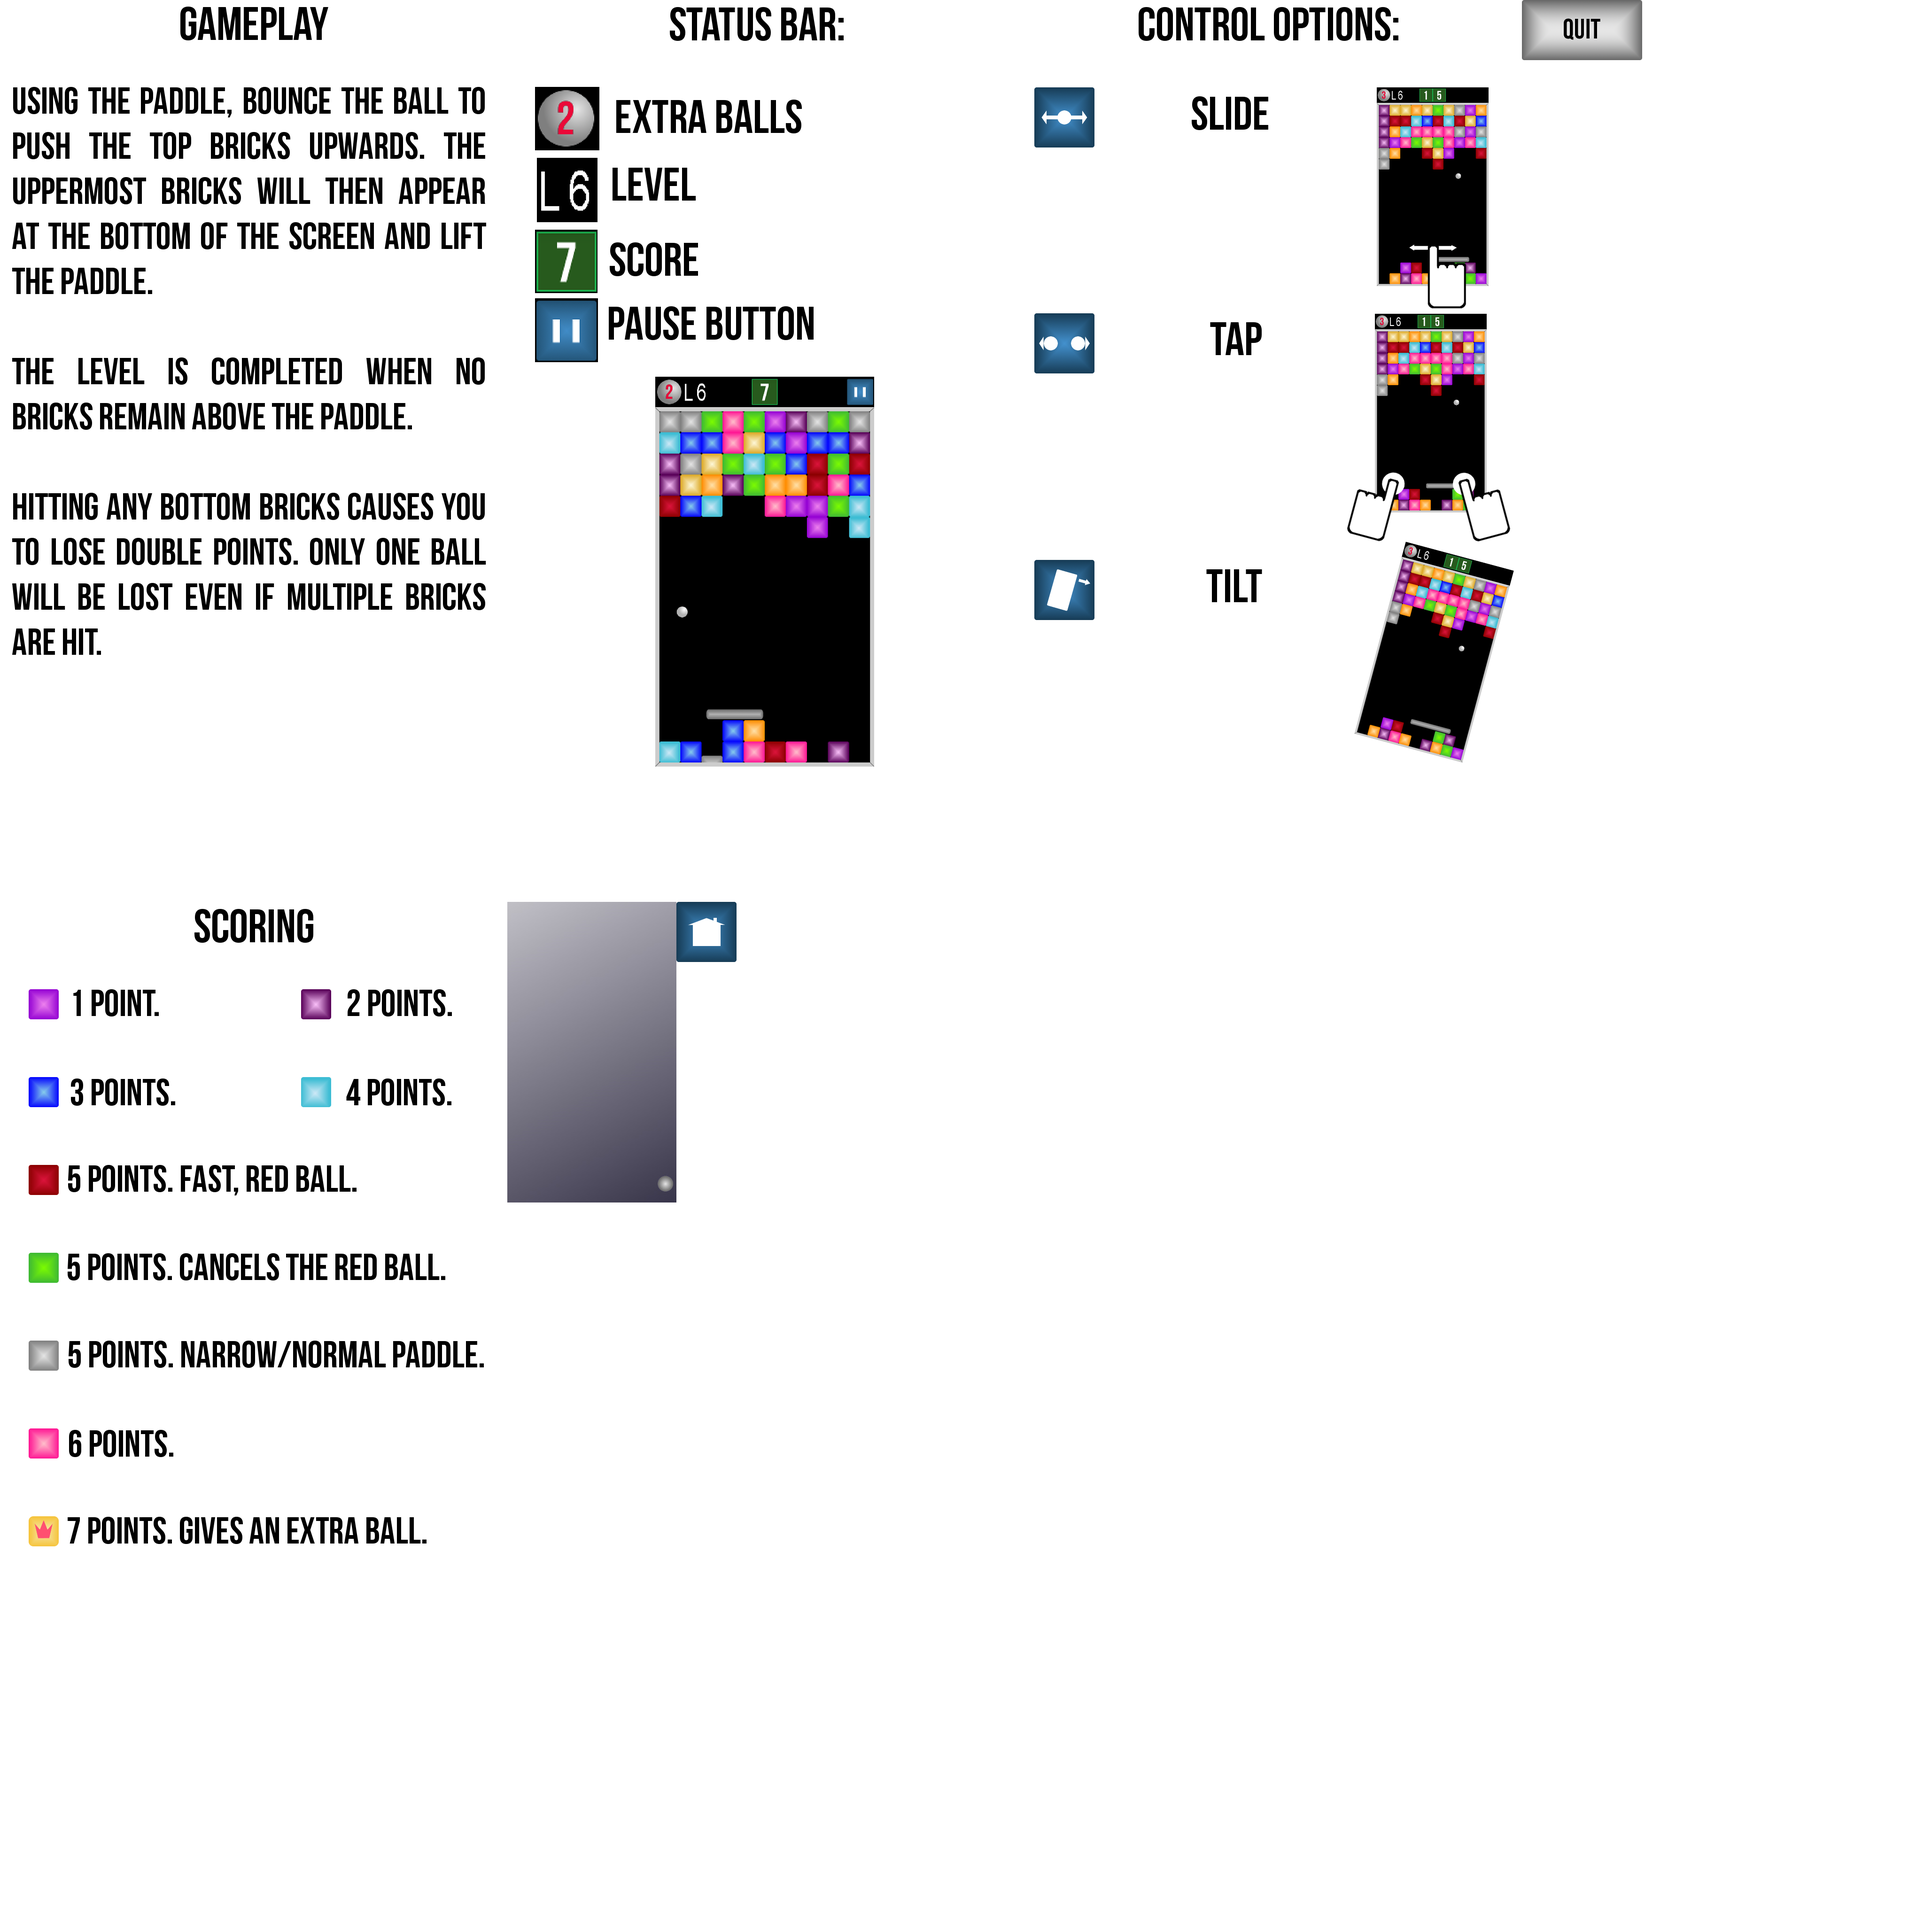
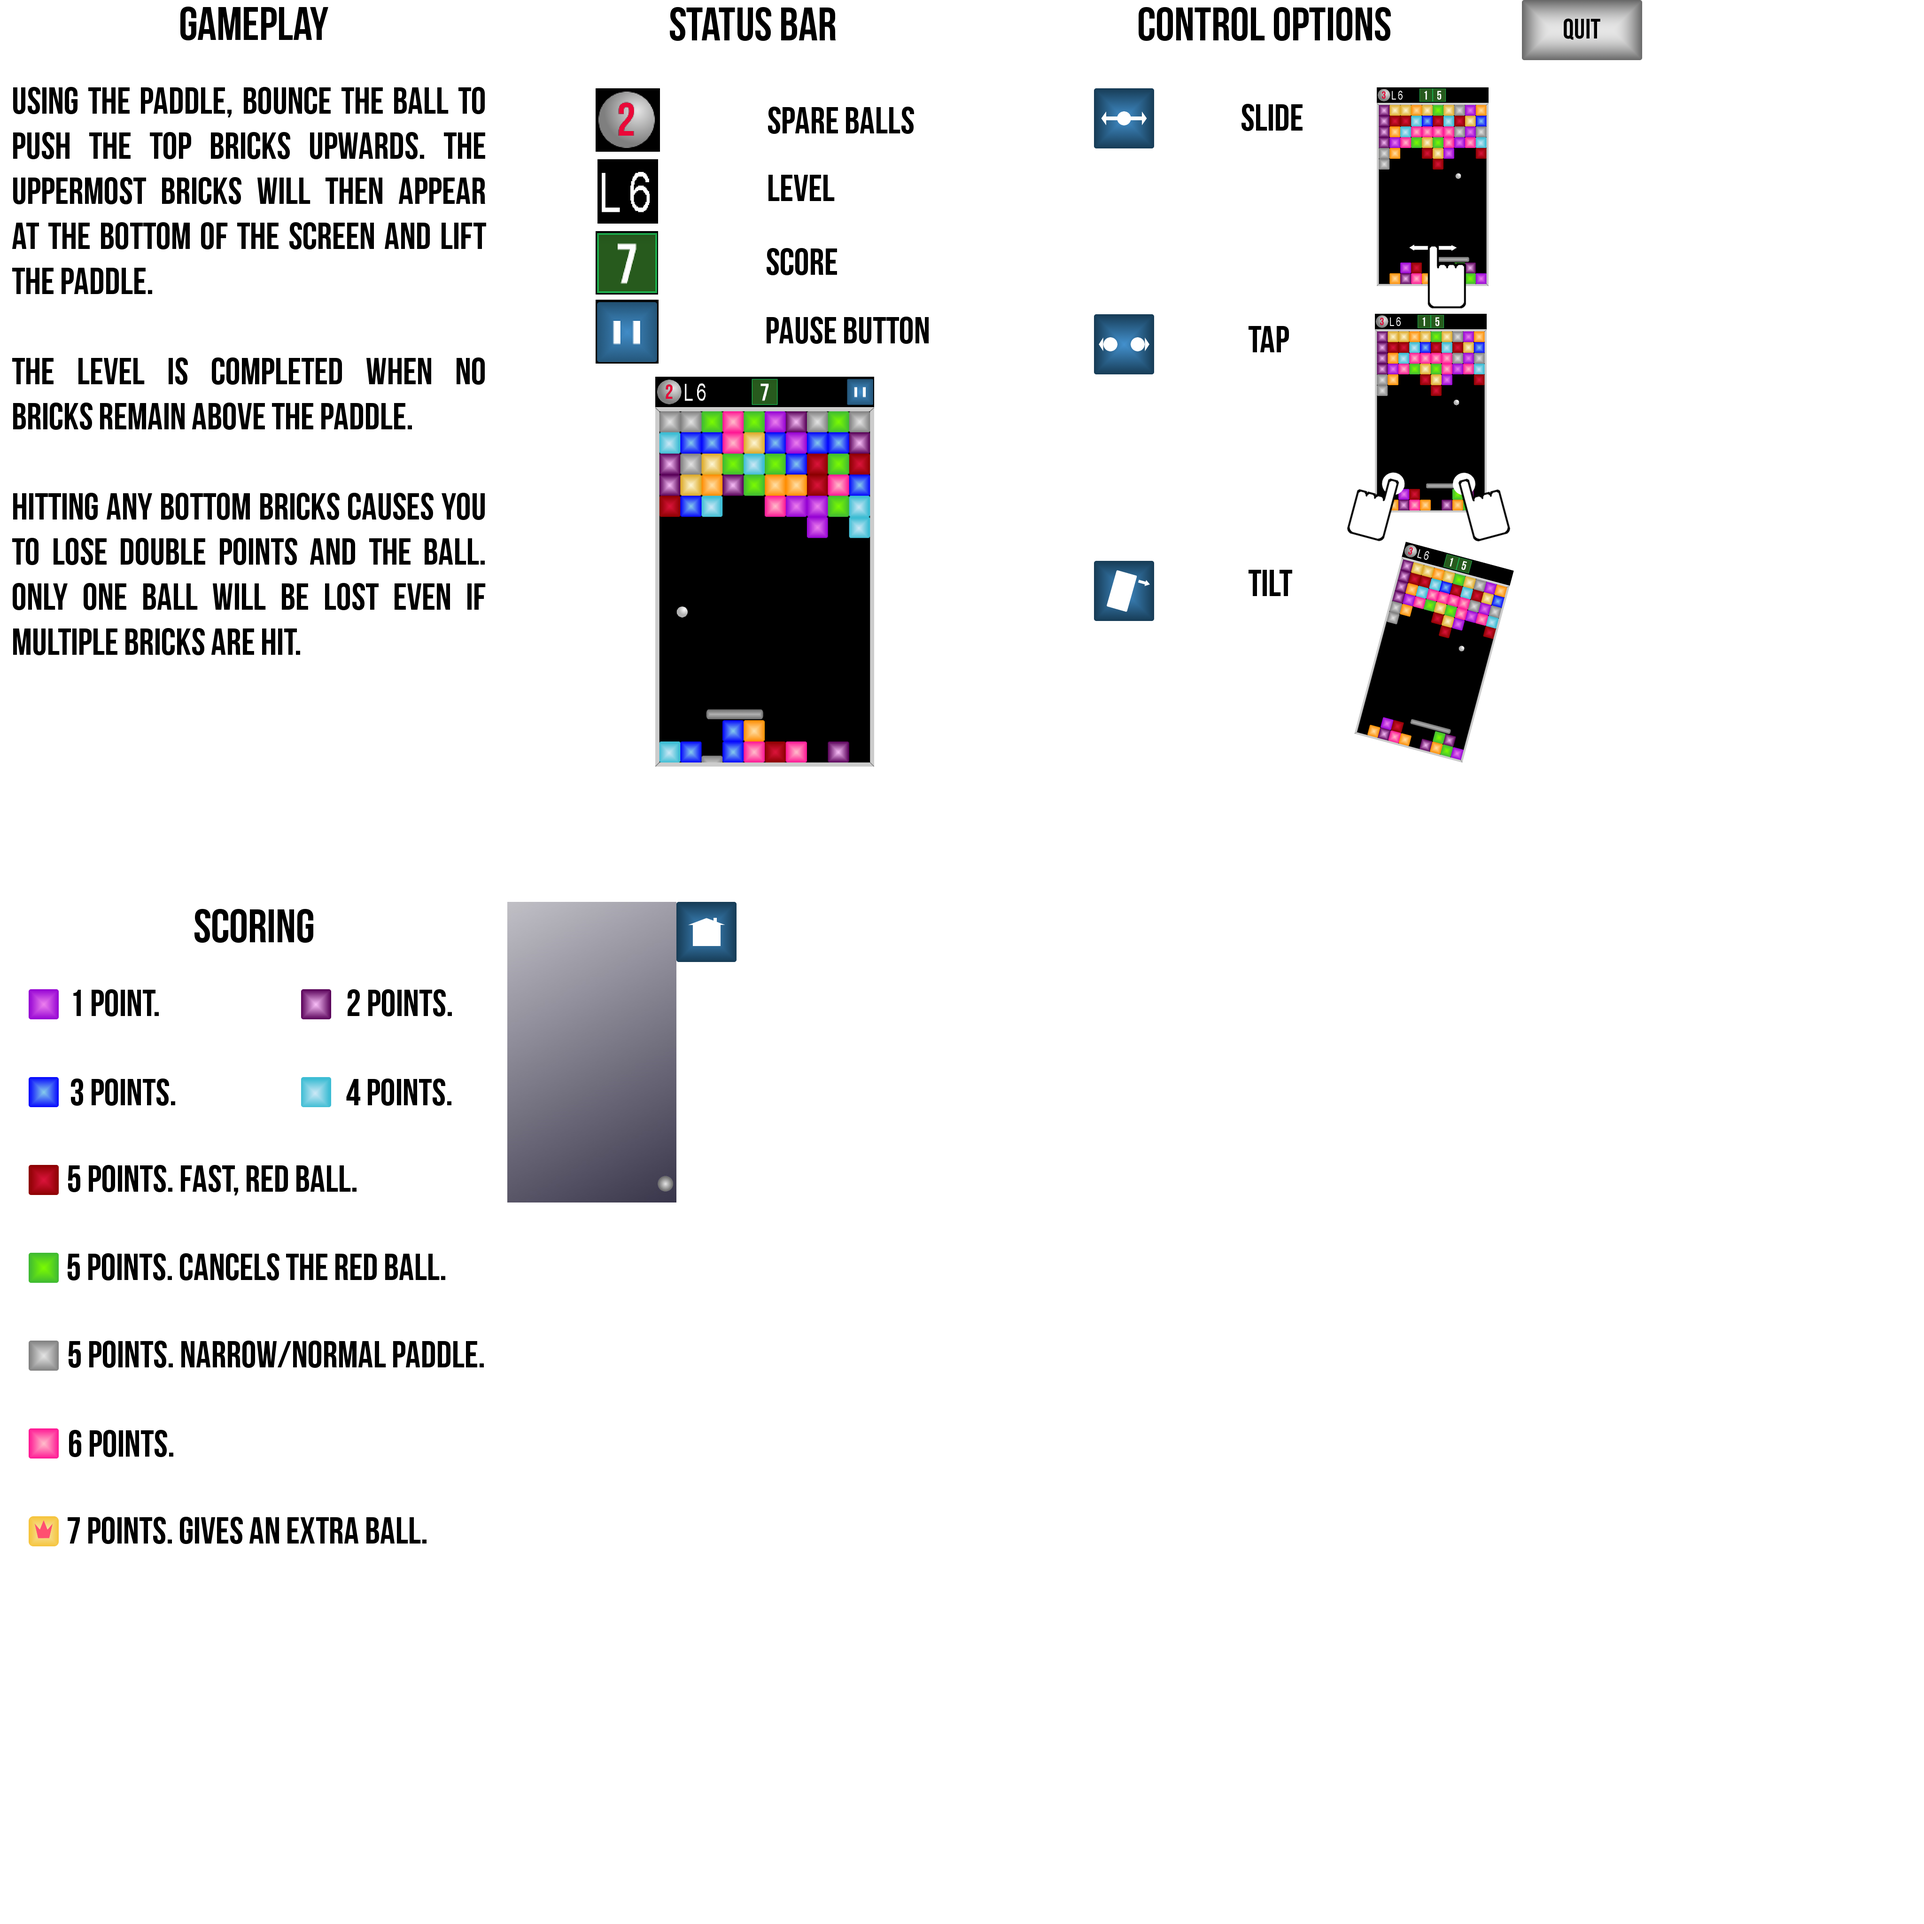
delete logging. delete FPSCounter. improve HelpScreens

diff --git a/src/com/mmango/arkshift/World.java b/src/com/mmango/arkshift/World.java
@@ -4,7 +4,7 @@ import java.util.ArrayList;
 import java.util.List;
 import java.util.Random;
 
-import android.util.Log;
+//import android.util.Log;
 
 import com.badlogic.androidgames.framework.math.Circle;
 import com.badlogic.androidgames.framework.math.OverlapTester;
@@ -448,10 +448,10 @@ public class World {
 			if (y2 > level - 1) { // if the right up corner of the ball rect is
 									// lower than the lowest possible row
 				// then no collision is possible
-				Log.d("World:getCellIds",
-						"right up corner of the ball rect is in cell y2 = "
-								+ y2
-								+ " which is lower than the lowest possible row");
+//				Log.d("World:getCellIds",
+//						"right up corner of the ball rect is in cell y2 = "
+//								+ y2
+//								+ " which is lower than the lowest possible row");
 				setNoCellIds();
 				return cellIds;
 			}
@@ -481,14 +481,14 @@ public class World {
 			if (y2 < 0)
 				y2 = 0;
 
-			Log.d("World:getCellIds", "The ball is in cells: x1=" + x1 + " y1="
-					+ y1 + " x2=" + x2 + " y2=" + y2);
+//			Log.d("World:getCellIds", "The ball is in cells: x1=" + x1 + " y1="
+//					+ y1 + " x2=" + x2 + " y2=" + y2);
 
 			cellIds[0] = x1;
 			cellIds[1] = y1;
 
 			if (x1 == x2 && y1 == y2) {
-				Log.d("World:getCellIds", "The ball is completely in one cell");
+//				Log.d("World:getCellIds", "The ball is completely in one cell");
 				cellIds[2] = -1; // the ball is completely in one cell
 				cellIds[3] = -1; // so no need to duplicate the cell IDs. One is
 									// enough
@@ -497,7 +497,7 @@ public class World {
 				cellIds[6] = -1;
 				cellIds[7] = -1;
 			} else if ((x1 == x2) || (y1 == y2)) { 
-				Log.d("World:getCellIds", "The ball overlaps only two cells either in same column or same row");
+//				Log.d("World:getCellIds", "The ball overlaps only two cells either in same column or same row");
 
 				// the ball is in one column
 													// or in one row
@@ -509,7 +509,7 @@ public class World {
 				cellIds[6] = -1;
 				cellIds[7] = -1;
 			} else { // the ball overlaps 4 cells
-				Log.d("World:getCellIds", "The ball overlaps four cells");
+//				Log.d("World:getCellIds", "The ball overlaps four cells");
 				cellIds[2] = x2;
 				cellIds[3] = y2;
 				int x3 = x2;
@@ -540,10 +540,10 @@ public class World {
 			int y1 = (int) Math.floor((ball.rectBounds.lowerLeft.y - FRAME_WIDTH) / CELL_SIZE);
 
 			if (y1 > level - 1) { //if the left bottom corner of the ball rect is higher than the highest possible row  then no collision is possible
-				Log.d("World:getCellIds",
-						"The left bottom corner of the ball rect is in cell y1 = "
-								+ y1
-								+ " which is higher than the highest possible row");
+//				Log.d("World:getCellIds",
+//						"The left bottom corner of the ball rect is in cell y1 = "
+//								+ y1
+//								+ " which is higher than the highest possible row");
 				setNoCellIds();
 				return cellIds;
 			}
@@ -572,14 +572,14 @@ public class World {
 			if (y2 < 0)
 				y2 = 0;
 
-			Log.d("World:getCellIds", "The ball is in cells: x1=" + x1 + " y1="
-					+ y1 + " x2=" + x2 + " y2=" + y2);
+//			Log.d("World:getCellIds", "The ball is in cells: x1=" + x1 + " y1="
+//					+ y1 + " x2=" + x2 + " y2=" + y2);
 
 			cellIds[0] = x1;
 			cellIds[1] = y1;
 
 			if (x1 == x2 && y1 == y2) {
-				Log.d("World:getCellIds", "The ball is completely in one cell");
+//				Log.d("World:getCellIds", "The ball is completely in one cell");
 				cellIds[2] = -1; // the ball is completely in one cell
 				cellIds[3] = -1; // so no need to duplicate the cell IDs. One is
 									// enough
@@ -588,7 +588,7 @@ public class World {
 				cellIds[6] = -1;
 				cellIds[7] = -1;
 			} else if ((x1 == x2) || (y1 == y2)) { 
-				Log.d("World:getCellIds", "The ball overlaps only two cells either in same column or same row");
+//				Log.d("World:getCellIds", "The ball overlaps only two cells either in same column or same row");
 
 				// the ball is in one column
 													// or in one row
@@ -600,7 +600,7 @@ public class World {
 				cellIds[6] = -1;
 				cellIds[7] = -1;
 			} else { // the ball overlaps 4 cells
-				Log.d("World:getCellIds", "The ball overlaps four cells");
+//				Log.d("World:getCellIds", "The ball overlaps four cells");
 				cellIds[2] = x2;
 				cellIds[3] = y2;
 				int x3 = x2;
@@ -638,9 +638,6 @@ public class World {
 		int bricksTouchedCounter = 0;
 		int bricksAffectedCounter = 0;
 		boolean isCeiling = false;
-		boolean ballAboveRacquet = false;
-		int xCell = -1;
-		int yCell = -1;
 		int[] bricksToCheck = { -1, -1, -1, -1 };
 
 		// int b = 0;
@@ -653,13 +650,13 @@ public class World {
 		// the bricks
 
 		// calculate cells where the corners of ball.rectBounds are located
-		Log.d("World:checkBallCollisionsWithBricks",
-				"ball.rectBounds.lowerLeft x=" + ball.rectBounds.lowerLeft.x
-						+ " y=" + ball.rectBounds.lowerLeft.y);
+//		Log.d("World:checkBallCollisionsWithBricks",
+//				"ball.rectBounds.lowerLeft x=" + ball.rectBounds.lowerLeft.x
+//						+ " y=" + ball.rectBounds.lowerLeft.y);
 		// example: ball.rectBounds.lowerLeft x=85.97813 y=161.30772
 		int j = 0;
 		if (ball.position.y > racquet.position.y) {
-			Log.d("World:checkBallCollisionsWithBricks", "Getting the potential cells from the ceiling");
+//			Log.d("World:checkBallCollisionsWithBricks", "Getting the potential cells from the ceiling");
 			getCellIds(ball, true); //get the potential cells from the ceiling
 			for (int z = 0; z < 8; z++) {
 				int w = z + 1;
@@ -667,9 +664,9 @@ public class World {
 					z = w;
 					continue;
 				}
-				Log.d("World:checkBallCollisionsWithBricks", "z=" + z + " w=" +w);
-				Log.d("World:checkBallCollisionsWithBricks", "Cell column="
-						+ cellIds[z] + " row=" + cellIds[w]);
+//				Log.d("World:checkBallCollisionsWithBricks", "z=" + z + " w=" +w);
+//				Log.d("World:checkBallCollisionsWithBricks", "Cell column="
+//						+ cellIds[z] + " row=" + cellIds[w]);
 				if (ceilingBricksId[cellIds[z]][cellIds[w]] != NO_OBJECT_ID) {
 					bricksToCheck[j] = ceilingBricksId[cellIds[z]][cellIds[w]];
 				}
@@ -677,7 +674,7 @@ public class World {
 				z = w;
 			}
 		} else {
-			Log.d("World:checkBallCollisionsWithBricks", "Getting the potential cells from the floor");
+//			Log.d("World:checkBallCollisionsWithBricks", "Getting the potential cells from the floor");
 			getCellIds(ball, false); //get the potential cells from the floor
 			for (int z = 0; z < 8; z++) {
 				int w = z + 1;
@@ -685,9 +682,9 @@ public class World {
 					z = w;
 					continue;
 				}
-				Log.d("World:checkBallCollisionsWithBricks", "z=" + z + " w=" +w);
-				Log.d("World:checkBallCollisionsWithBricks", "Cell column="
-						+ cellIds[z] + " row=" + cellIds[w]);
+//				Log.d("World:checkBallCollisionsWithBricks", "z=" + z + " w=" +w);
+//				Log.d("World:checkBallCollisionsWithBricks", "Cell column="
+//						+ cellIds[z] + " row=" + cellIds[w]);
 				if (floorBricksId[cellIds[z]][cellIds[w]] != NO_OBJECT_ID) {
 					bricksToCheck[j] = floorBricksId[cellIds[z]][cellIds[w]];
 				}
@@ -702,14 +699,14 @@ public class World {
 			// would overlap with the
 			// ball in the next move
 			if (bricksToCheck[i] != -1) {
-				Log.d("World:checkBallCollisionsWithBricks", "AGAIN bricksToCheck[" + i
-						+ "]=" + bricksToCheck[i]);
+//				Log.d("World:checkBallCollisionsWithBricks", "AGAIN bricksToCheck[" + i
+//						+ "]=" + bricksToCheck[i]);
 				Brick brick = bricks.get(bricksToCheck[i]);
 				if (OverlapTester.overlapCircleRectangle(ball.bounds,
 						brick.bounds)) {
 					bricksTouched[bricksTouchedCounter] = bricksToCheck[i];
 					bricksTouchedCounter++;
-					Log.d("World:checkBallCollisionsWithBricks", "Overlapping brick " + bricksToCheck[i]);
+//					Log.d("World:checkBallCollisionsWithBricks", "Overlapping brick " + bricksToCheck[i]);
 
 					// temporary, to test the level passed situation:
 					// state = WORLD_STATE_NEXT_LEVEL;
@@ -718,16 +715,16 @@ public class World {
 		}
 		
 
-		if (bricksTouchedCounter != 0) {
-			Log.d("World:checkBallCollisionsWithBricks",
-					"bricksTouchedCounter = " + bricksTouchedCounter);
-			Log.d("World:checkBallCollisionsWithBricks", "ballAtCeiling = "
-					+ ballAboveRacquet);
-		}
+//		if (bricksTouchedCounter != 0) {
+//			Log.d("World:checkBallCollisionsWithBricks",
+//					"bricksTouchedCounter = " + bricksTouchedCounter);
+//			Log.d("World:checkBallCollisionsWithBricks", "ballAtCeiling = "
+//					+ ballAboveRacquet);
+//		}
 
 		if (bricksTouchedCounter == 2) { // I expect it be not more than 2
-			Log.d("World:checkBallCollisionsWithBricks",
-					"2 bricks are touched!");
+//			Log.d("World:checkBallCollisionsWithBricks",
+//					"2 bricks are touched!");
 			// for (int k = 0; k < length; k++) {
 			// Log.d("World:checkBallCollisionsWithBricks",
 			// "brickID in bricks = " + bricksTouched.get(k));
@@ -886,8 +883,8 @@ public class World {
 			}
 
 		} else if (bricksTouchedCounter == 3) {
-			Log.d("World:checkBallCollisionsWithBricks",
-					"3 bricks are touched! This is a kind of IN-CORNER collision");
+//			Log.d("World:checkBallCollisionsWithBricks",
+//					"3 bricks are touched! This is a kind of IN-CORNER collision");
 			// Log.d("World:checkBallCollisionsWithBricks",
 
 			// Actually it is geometricaly impossible for a circle to touch
@@ -925,7 +922,7 @@ public class World {
 
 		} else if (bricksTouchedCounter == 1) { // only one brick would be
 												// overlap
-			Log.d("World:checkBallCollisionsWithBricks", "1 brick is touched!");
+//			Log.d("World:checkBallCollisionsWithBricks", "1 brick is touched!");
 
 			bricksAffected[0] = bricksTouched[0]; // in this array I
 													// store the ID of the
@@ -933,9 +930,9 @@ public class World {
 			bricksAffectedCounter = 1;
 
 			Brick brick = bricks.get(bricksAffected[0]);
-			Log.d("World:checkBallCollisionsWithBricks",
-					"brick.bounds.lowerLeft x=" + brick.bounds.lowerLeft.x
-							+ " y=" + brick.bounds.lowerLeft.y);
+//			Log.d("World:checkBallCollisionsWithBricks",
+//					"brick.bounds.lowerLeft x=" + brick.bounds.lowerLeft.x
+//							+ " y=" + brick.bounds.lowerLeft.y);
 			// example brick.bounds.lowerLeft x=85.2 y=164.6
 
 			Circle c = ball.bounds;

diff --git a/src/com/mmango/arkshift/GameScreen.java b/src/com/mmango/arkshift/GameScreen.java
@@ -9,7 +9,7 @@ import javax.microedition.khronos.opengles.GL10;
 import com.badlogic.androidgames.framework.Game;
 import com.badlogic.androidgames.framework.Input.TouchEvent;
 import com.badlogic.androidgames.framework.gl.Camera2D;
-import com.badlogic.androidgames.framework.gl.FPSCounter;
+//import com.badlogic.androidgames.framework.gl.FPSCounter;
 import com.badlogic.androidgames.framework.gl.SpriteBatcher;
 import com.badlogic.androidgames.framework.gl.TextureRegion;
 import com.badlogic.androidgames.framework.impl.GLScreen;
@@ -55,7 +55,7 @@ public class GameScreen extends GLScreen {
 	Rectangle moveRacquetRightTouchZone;
 	int lastScore;
 	String scoreString;
-	FPSCounter fpsCounter;
+	//FPSCounter fpsCounter;
 	float lastX = -1;
 	float lastY = -1;
 	TextureRegion ballsLeftRegion;
@@ -153,7 +153,7 @@ public class GameScreen extends GLScreen {
 						- FRAME_WIDTH);
 		lastScore = 0;
 		scoreString = Integer.toString(lastScore);
-		fpsCounter = new FPSCounter();
+		//fpsCounter = new FPSCounter();
 	}
 
 	@Override
@@ -481,7 +481,7 @@ public class GameScreen extends GLScreen {
 		}
 		batcher.endBatch();
 		gl.glDisable(GL10.GL_BLEND);
-		fpsCounter.logFrame();
+		//fpsCounter.logFrame();
 
 	}
 

diff --git a/src/com/mmango/arkshift/Settings.java b/src/com/mmango/arkshift/Settings.java
@@ -39,7 +39,7 @@ public class Settings {
 				GAME_PREFERENCES, 0);
 		appName = settings.getString("AppName", "none :(");
 		soundEnabled = settings.getBoolean("SoundEnabled", true);
-		controlType = settings.getInt("ControlType", CONTROL_BY_TOUCH);
+		controlType = settings.getInt("ControlType", CONTROL_BY_SWIPE);
 //		Log.d("Settings:readPrefs", "AppName = " + appName);
 //		Log.d("Settings:readPrefs", "soundEnabled = " + soundEnabled);
 //		Log.d("Settings:readPrefs", "controlType = " + controlType);
